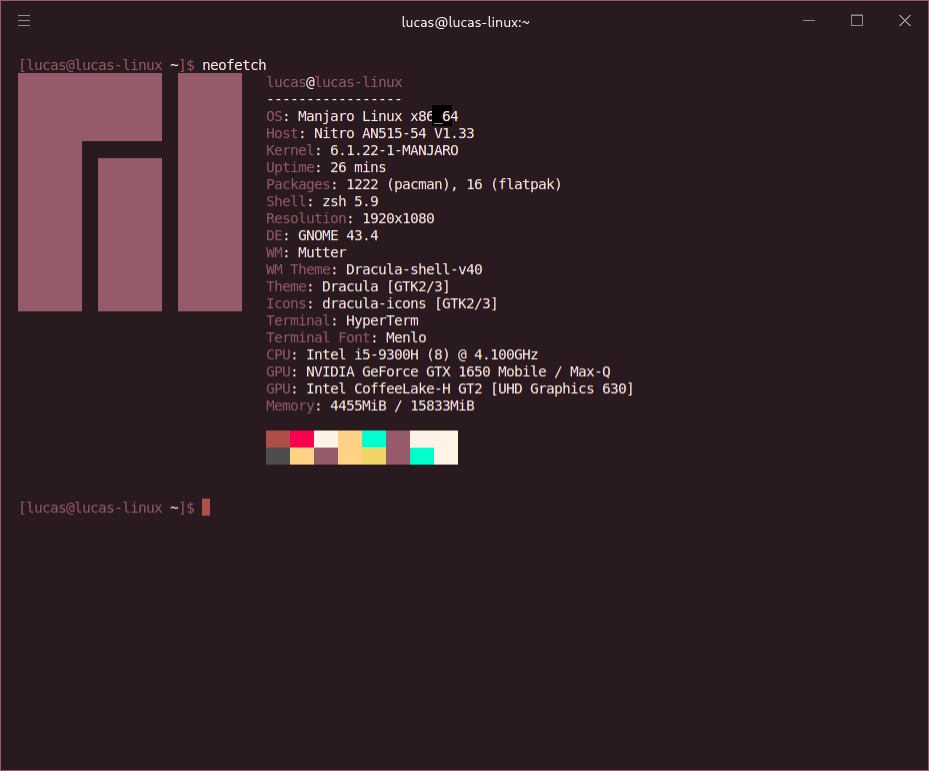
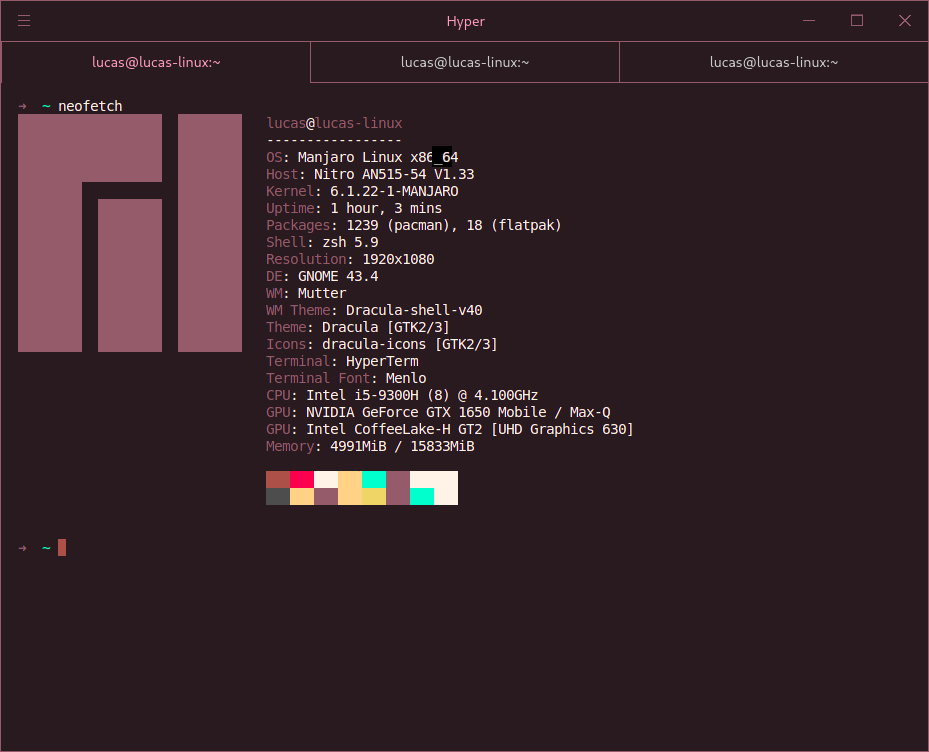
change header and tabs text colors

diff --git a/index.js b/index.js
@@ -1,3 +1,17 @@
+const colors = {
+  backgroundColor: "#261C1E",
+  cursorColor: "#A45A49",
+  foregroundColor: "#FFF2E7",
+  cursorAccentColor: "#2F2325",
+  selectionColor: "#583c38",
+  borderColor: "#8E646B",
+  black: "#EFC764",
+  green: "#67E480",
+  red: "#E94554",
+  comment: "#8E646B",
+  pink: "#feafbe",
+};
+
 module.exports.decorateConfig = (config) => {
   return Object.assign({}, config, {
     cursorColor: colors.cursorColor,
@@ -25,18 +39,15 @@ module.exports.decorateConfig = (config) => {
       lightCyan: "#61ffca",
       lightWhite: colors.foregroundColor,
     },
+    css: `
+      ${config.css || ""}
+      * {
+      -webkit-font-feature-settings: "liga" on, "calt" on, "dlig" on !important;
+        text-rendering: optimizeLegibility !important;
+      }
+      .header_shape, .tab_tab.tab_active, .header_appTitle {
+        color: ${colors.pink} !important;
+      }
+    `,
   });
-};
-
-const colors = {
-  backgroundColor: "#261C1E",
-  cursorColor: "#A45A49",
-  foregroundColor: "#FFF2E7",
-  cursorAccentColor: "#2F2325",
-  selectionColor: "#583c38",
-  borderColor: "#8E646B",
-  black: "#EFC764",
-  green: "#67E480",
-  red: "#E94554",
-  comment: "#8E646B",
 };
